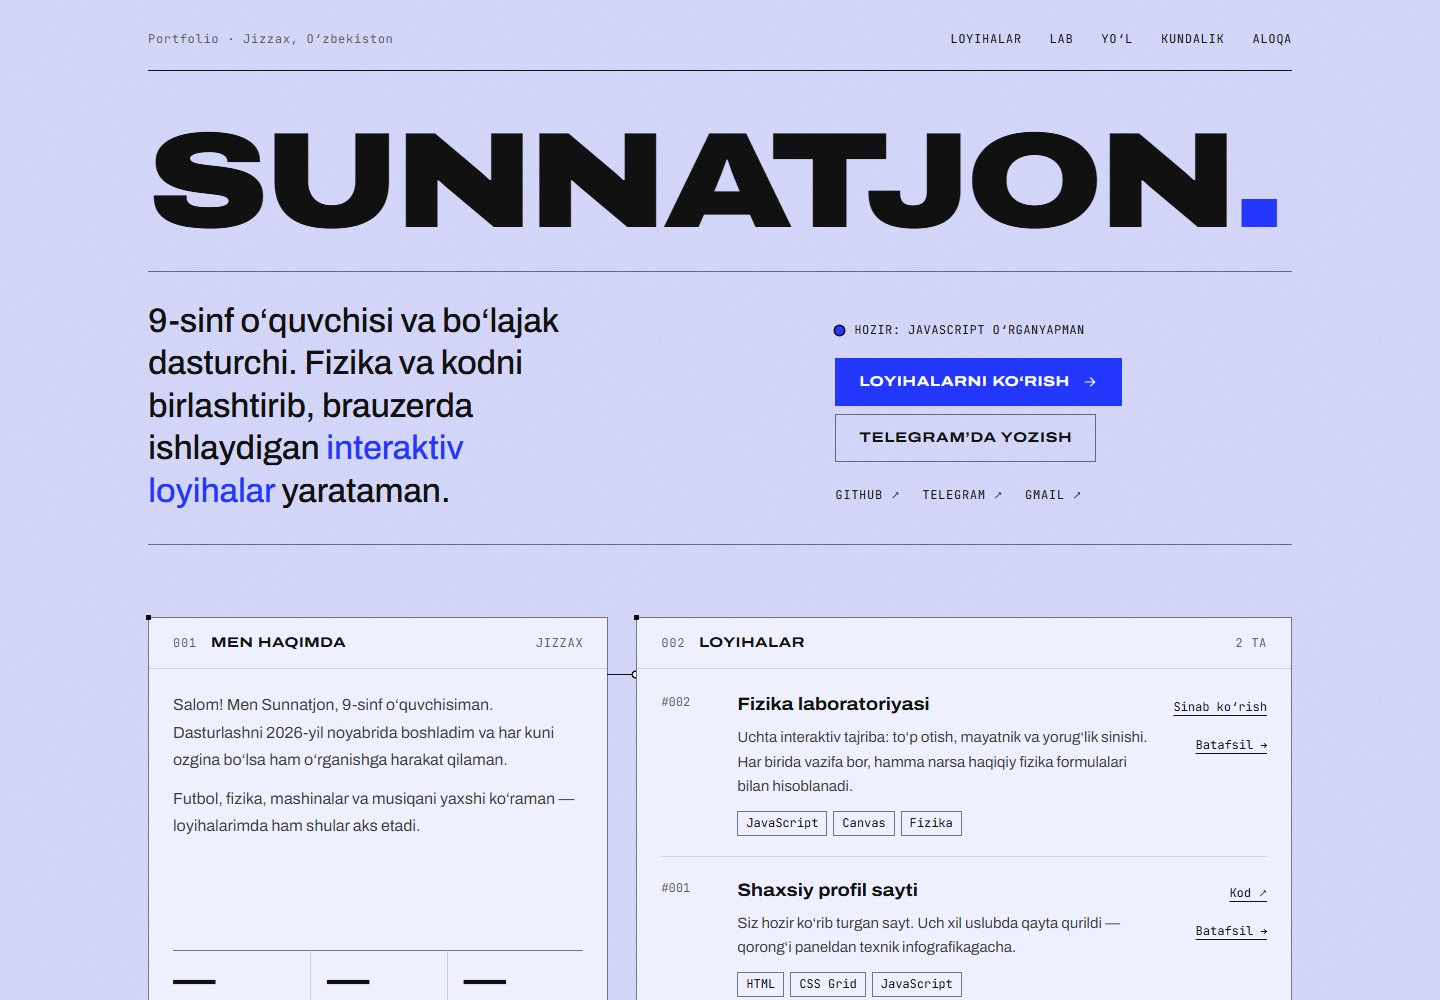
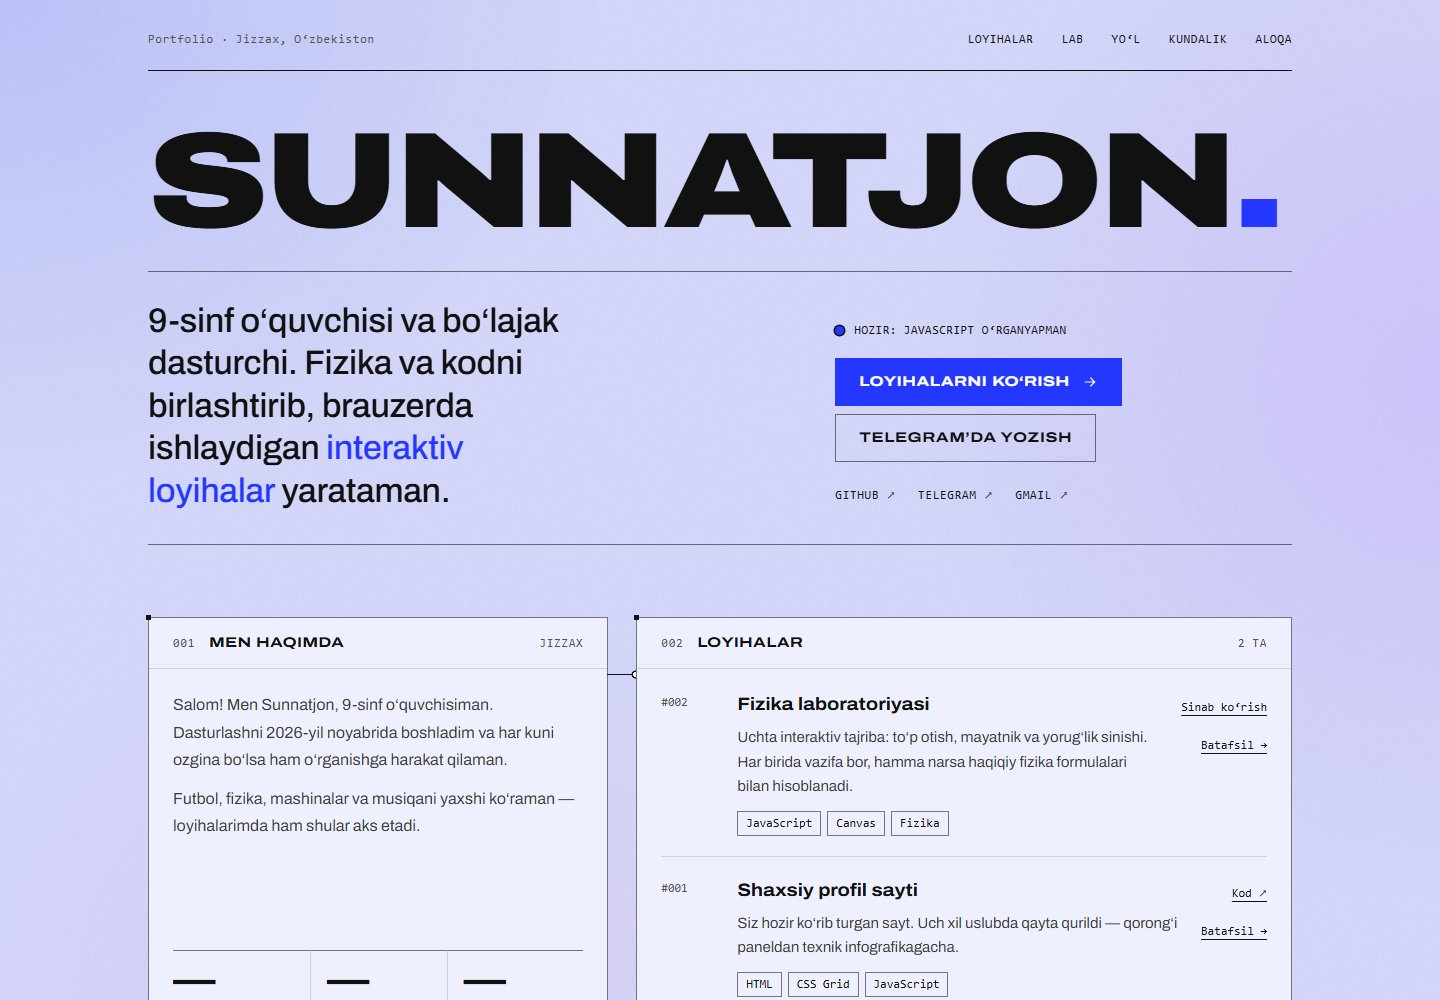
Lavanda fonga rangli yorug'lik + keshni chetlab o'tish
- Fon ustida yumshoq ko'k, binafsha va pushti nurlar (body::before, ekranga mahkamlangan)
- Xira matn biroz to'qroq (#52524F): nur tushgan joylarda ham kontrast >= 4.5:1
- CSS/JS havolalariga versiya raqami (?v=20261118): brauzer eski dizaynni
  xotiradan ko'rsatib qolmasligi uchun

diff --git a/index.html b/index.html
@@ -36,7 +36,9 @@
   <!-- Asosiy shriftni oldindan yuklaymiz — sarlavha tezroq chiqadi -->
   <link rel="preload" href="fonts/archivo-latin.woff2" as="font" type="font/woff2" crossorigin>
   <link rel="preload" href="fonts/jetbrains-mono-latin.woff2" as="font" type="font/woff2" crossorigin>
-  <link rel="stylesheet" href="style.css">
+  <!-- "?v=..." — versiya raqami: brauzer eski faylni xotirasidan olmasligi uchun.
+       style.css yoki js/ fayllarini o'zgartirsangiz, bu raqamni yangilang (masalan, bugungi sana). -->
+  <link rel="stylesheet" href="style.css?v=20261118">
 </head>
 <body>
 
@@ -449,13 +451,13 @@
   <div class="toast" id="toast" role="status" aria-live="polite"></div>
 
   <!-- Skriptlar mavzular bo'yicha bo'lingan; "defer" — sahifa tayyor bo'lgach, shu tartibda ishga tushadi -->
-  <script src="js/asosiy.js" defer></script>
-  <script src="js/github.js" defer></script>
-  <script src="js/kundalik.js" defer></script>
-  <script src="js/lab.js" defer></script>
-  <script src="js/lab-mayatnik.js" defer></script>
-  <script src="js/lab-nur.js" defer></script>
-  <script src="js/lab-tablar.js" defer></script>
-  <script src="js/terminal.js" defer></script>
+  <script src="js/asosiy.js?v=20261118" defer></script>
+  <script src="js/github.js?v=20261118" defer></script>
+  <script src="js/kundalik.js?v=20261118" defer></script>
+  <script src="js/lab.js?v=20261118" defer></script>
+  <script src="js/lab-mayatnik.js?v=20261118" defer></script>
+  <script src="js/lab-nur.js?v=20261118" defer></script>
+  <script src="js/lab-tablar.js?v=20261118" defer></script>
+  <script src="js/terminal.js?v=20261118" defer></script>
 </body>
 </html>

diff --git a/style.css b/style.css
@@ -48,7 +48,7 @@
   --field: #f8f9ff;           /* inputlar va grafik maydoni */
   --ink: #111111;             /* asosiy qora */
   --text: #3d3d3b;            /* oddiy matn */
-  --muted: #5c5c59;           /* xira matn (fonda ham, panelda ham kontrast ≥ 5:1) */
+  --muted: #52524f;           /* xira matn (rangli nur tushgan fonda ham kontrast ≥ 4.5:1) */
   --frame: rgba(17, 17, 17, 0.55);   /* panel ramkasi */
   --rule: rgba(17, 17, 17, 0.14);    /* ichki ingichka chiziqlar */
   --grey: #a3a3a0;
@@ -102,6 +102,20 @@ body {
   line-height: 1.6;
   -webkit-font-smoothing: antialiased;
   overflow-x: hidden;
+}
+
+/* Lavanda fon ustida yumshoq rangli yorug'lik: yuqori-chapda ko'k, o'ngda binafsha, pastda pushti.
+   Ekranga mahkamlangan (position: fixed) — aylantirganda ham bir xil turadi. Panellar ostida qoladi. */
+body::before {
+  content: "";
+  position: fixed;
+  inset: 0;
+  z-index: -1;
+  pointer-events: none;
+  background:
+    radial-gradient(60vw 48vw at 0% 0%, rgba(35, 55, 255, 0.13), transparent 70%),
+    radial-gradient(52vw 52vw at 100% 38%, rgba(168, 102, 255, 0.16), transparent 70%),
+    radial-gradient(46vw 40vw at 28% 100%, rgba(255, 128, 214, 0.10), transparent 70%);
 }
 
 a { color: inherit; }

diff --git a/404.html b/404.html
@@ -13,7 +13,7 @@
     Shuning uchun barcha havolalar "/sunnatjon-profil-sayt/..." ko'rinishida — to'liq yo'l bilan.
   -->
   <link rel="icon" href="/sunnatjon-profil-sayt/favicon.svg" type="image/svg+xml">
-  <link rel="stylesheet" href="/sunnatjon-profil-sayt/style.css">
+  <link rel="stylesheet" href="/sunnatjon-profil-sayt/style.css?v=20261118">
   <style>
     .nf { max-width: 1240px; margin: 0 auto; padding: 20px var(--gutter, 24px) 64px; }
     .nf__code { margin: clamp(32px, 6vw, 64px) 0 24px; font-size: min(30vw, 260px); }

diff --git a/loyihalar/fizika-laboratoriyasi.html b/loyihalar/fizika-laboratoriyasi.html
@@ -24,7 +24,7 @@
   <link rel="apple-touch-icon" href="../apple-touch-icon.png">
   <link rel="preload" href="../fonts/archivo-latin.woff2" as="font" type="font/woff2" crossorigin>
   <link rel="preload" href="../fonts/jetbrains-mono-latin.woff2" as="font" type="font/woff2" crossorigin>
-  <link rel="stylesheet" href="../style.css">
+  <link rel="stylesheet" href="../style.css?v=20261118">
 </head>
 <body>
 

diff --git a/loyihalar/profil-sayti.html b/loyihalar/profil-sayti.html
@@ -24,7 +24,7 @@
   <link rel="apple-touch-icon" href="../apple-touch-icon.png">
   <link rel="preload" href="../fonts/archivo-latin.woff2" as="font" type="font/woff2" crossorigin>
   <link rel="preload" href="../fonts/jetbrains-mono-latin.woff2" as="font" type="font/woff2" crossorigin>
-  <link rel="stylesheet" href="../style.css">
+  <link rel="stylesheet" href="../style.css?v=20261118">
 </head>
 <body>
 
